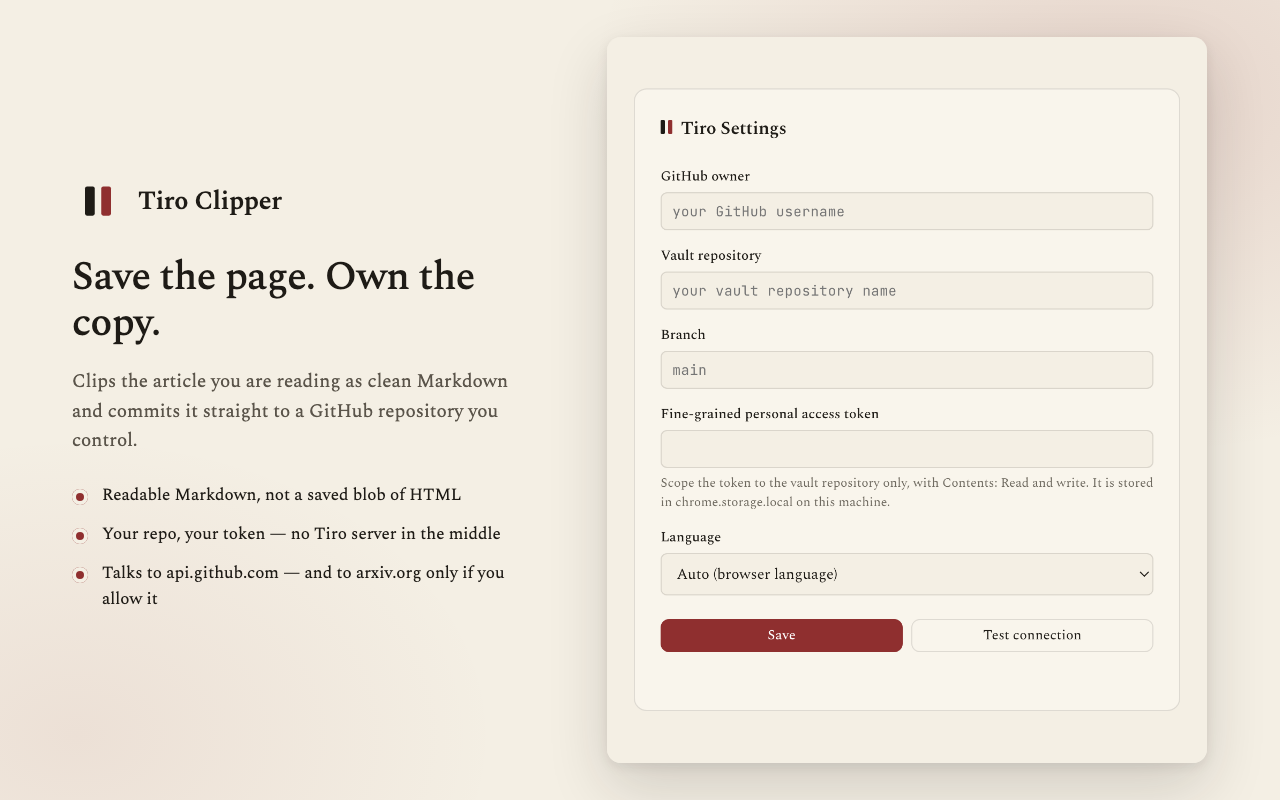
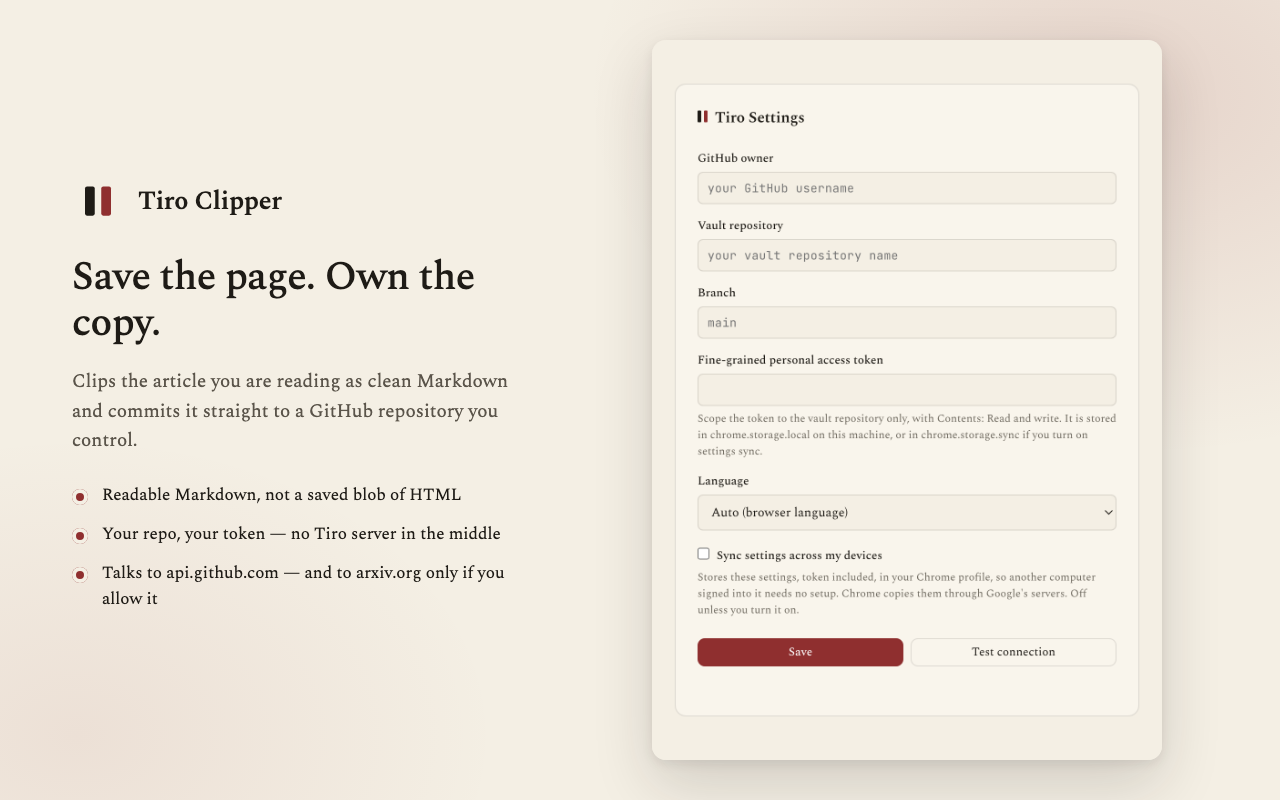
feat(extension): add the settings sync toggle to the options page
The flip that makes opt-in sync reachable: a tickbox below the language
select, its own hint saying plainly that the token goes into the Chrome
profile and travels through Google's servers, and strings for both locales.

Switching sync on can adopt settings the synced area already holds, language
included, so the handler repaints the form and re-applies the UI copy rather
than leaving stale values on screen — without that, joining an existing sync
would show the old settings while using the new ones.

Two failures with opposite right answers, so the handler is a try/catch pair
rather than .then(ok, err): that form does not catch a throw from its own
success arm, which turned a failed repaint into an unhandled rejection with
the status line still reading "Saved." — found by driving the real handlers
against a stubbed chrome.storage in the browser, and re-checked after. A failed
write reverts the tickbox, because it would otherwise claim something untrue
about where the token is; a failed repaint leaves it alone, because the switch
did take effect, and reverting would be the lie.

The onChanged listener is registered inside init(), after the ?preview early
return — at module scope it would throw in the dev-fixtures build, which has no
chrome to add a listener to. It reports rather than repaints: comparing storage
against the form means a save of our own can never notify itself, and a user
mid-edit does not lose typed input to another device's write.
[…]

diff --git a/apps/extension/src/options/options.ts b/apps/extension/src/options/options.ts
@@ -14,8 +14,10 @@ import {
 import {
   loadConfig,
   loadLanguage,
+  loadSyncEnabled,
   saveConfig,
   saveLanguage,
+  setSyncEnabled,
 } from "../storage.ts";
 
 const input = {
@@ -32,8 +34,11 @@ const label = {
   token: document.getElementById("label-token") as HTMLSpanElement,
   tokenHint: document.getElementById("token-hint") as HTMLParagraphElement,
   language: document.getElementById("label-language") as HTMLSpanElement,
+  sync: document.getElementById("label-sync") as HTMLSpanElement,
+  syncHint: document.getElementById("sync-hint") as HTMLParagraphElement,
 };
 const languageSelect = document.getElementById("language") as HTMLSelectElement;
+const syncCheckbox = document.getElementById("sync") as HTMLInputElement;
 const saveButton = document.getElementById("save") as HTMLButtonElement;
 const testButton = document.getElementById("test") as HTMLButtonElement;
 const result = document.getElementById("result") as HTMLParagraphElement;
@@ -51,9 +56,9 @@ function currentConfig() {
   };
 }
 
-function show(message: string, ok: boolean): void {
+function show(message: string, tone: "ok" | "error" | "warn"): void {
   result.textContent = message;
-  result.className = ok ? "ok" : "error";
+  result.className = tone;
 }
 
 function applyText(locale: Locale): void {
@@ -68,6 +73,8 @@ function applyText(locale: Locale): void {
   label.token.textContent = m.labelToken;
   label.tokenHint.textContent = m.tokenHint;
   label.language.textContent = m.labelLanguage;
+  label.sync.textContent = m.labelSync;
+  label.syncHint.textContent = m.syncHint;
   const option: Record<LanguageSetting, string> = {
     auto: m.langAuto,
     en: m.langEn,
@@ -94,6 +101,39 @@ function describeConnection(r: ConnectionTestResult): string {
   }
 }
 
+/** Paints the stored settings into the form. Used on load and after the sync
+ * toggle, which can change what "stored" means: switching sync on adopts
+ * whatever the synced area already holds, so the form has to be repainted or
+ * it would keep showing values that are no longer the ones in use. */
+async function fillForm(): Promise<void> {
+  const config = await loadConfig();
+  input.owner.value = config.owner;
+  input.repo.value = config.repo;
+  input.branch.value = config.branch;
+  input.token.value = config.token;
+  savedLanguage = await loadLanguage();
+  languageSelect.value = savedLanguage;
+}
+
+/** Says so when the settings in storage no longer match the ones on screen.
+ *
+ * Compares against the form rather than tracking whether this page caused the
+ * write: after a save of our own the two already agree, so a self-inflicted
+ * notice is impossible without any bookkeeping. Deliberately does not repaint
+ * — the user may be mid-edit, and losing typed input to another device's write
+ * would be worse than showing a stale field. */
+async function announceRemoteChange(): Promise<void> {
+  const [config, language] = await Promise.all([loadConfig(), loadLanguage()]);
+  const onScreen = currentConfig();
+  const differs =
+    onScreen.owner !== config.owner ||
+    onScreen.repo !== config.repo ||
+    onScreen.branch !== config.branch ||
+    onScreen.token !== config.token ||
+    language !== savedLanguage;
+  if (differs) show(m.syncedElsewhere, "warn");
+}
+
 async function init(): Promise<void> {
   if (__DEV_FIXTURES__) {
     // A development build served outside the extension has no chrome.storage
@@ -112,18 +152,14 @@ async function init(): Promise<void> {
   const controls = [
     ...Object.values(input),
     languageSelect,
+    syncCheckbox,
     saveButton,
     testButton,
   ];
   for (const control of controls) control.disabled = true;
   try {
-    const config = await loadConfig();
-    input.owner.value = config.owner;
-    input.repo.value = config.repo;
-    input.branch.value = config.branch;
-    input.token.value = config.token;
-    savedLanguage = await loadLanguage();
-    languageSelect.value = savedLanguage;
+    syncCheckbox.checked = await loadSyncEnabled();
+    await fillForm();
     const locale = await getLocale();
     m = messages(locale);
     applyText(locale);
@@ -132,11 +168,48 @@ async function init(): Promise<void> {
     // overwrite a good stored config — so the form stays inert, but says
     // why instead of sitting there dead. (m may still be the English
     // default here; the locale read failed along with everything else.)
-    show(m.couldNotLoad(String(error)), false);
+    show(m.couldNotLoad(String(error)), "error");
     return;
   }
   for (const control of controls) control.disabled = false;
+  // Registered here rather than at module scope: the ?preview path above
+  // returns before this, and that build has no chrome to add a listener to.
+  chrome.storage.onChanged.addListener((_changes, areaName) => {
+    if (areaName === "sync") void announceRemoteChange();
+  });
 }
+
+syncCheckbox.addEventListener("change", () => {
+  const enabled = syncCheckbox.checked;
+  // Two failures with opposite right answers, so not `.then(ok, err)` — that
+  // form does not catch a throw from its own success arm, which left a failed
+  // repaint as an unhandled rejection with the status line still showing the
+  // previous message.
+  void (async () => {
+    try {
+      await setSyncEnabled(enabled);
+    } catch (error) {
+      // The write did not stick, so the tickbox is claiming something untrue
+      // about where the token is: put it back.
+      syncCheckbox.checked = !enabled;
+      show(m.couldNotSave(String(error)), "error");
+      return;
+    }
+    try {
+      // Switching on can adopt settings already in sync, language included,
+      // so the form and the UI copy both have to follow.
+      await fillForm();
+      const locale = await getLocale();
+      m = messages(locale);
+      applyText(locale);
+      show(enabled ? m.syncOn : m.syncOff, "ok");
+    } catch (error) {
+      // The switch did take effect and only the repaint failed. Reverting the
+      // tickbox would be the lie here, so leave it and say what happened.
+      show(m.couldNotLoad(String(error)), "error");
+    }
+  })();
+});
 
 languageSelect.addEventListener("change", () => {
   const setting = languageSelect.value as LanguageSetting;
@@ -154,14 +227,14 @@ languageSelect.addEventListener("change", () => {
       // A selector showing a choice that did not stick would be a lie: put
       // the stored value back and say what happened.
       languageSelect.value = savedLanguage;
-      show(m.couldNotSave(String(error)), false);
+      show(m.couldNotSave(String(error)), "error");
     });
 });
 
 saveButton.addEventListener("click", () => {
   void saveConfig(currentConfig()).then(
-    () => show(m.saved, true),
-    (error: unknown) => show(m.couldNotSave(String(error)), false),
+    () => show(m.saved, "ok"),
+    (error: unknown) => show(m.couldNotSave(String(error)), "error"),
   );
 });
 
@@ -173,11 +246,13 @@ testButton.addEventListener("click", () => {
     config.token === "" ? m.fieldToken : null,
   ].filter((f) => f !== null);
   if (missing.length > 0) {
-    show(m.fillFields(missing), false);
+    show(m.fillFields(missing), "error");
     return;
   }
-  show(m.testing, true);
-  void testConnection(config).then((r) => show(describeConnection(r), r.ok));
+  show(m.testing, "ok");
+  void testConnection(config).then((r) =>
+    show(describeConnection(r), r.ok ? "ok" : "error"),
+  );
 });
 
 void init();

diff --git a/apps/extension/src/i18n.ts b/apps/extension/src/i18n.ts
@@ -96,6 +96,13 @@ const en = {
   tokenHint:
     "Scope the token to the vault repository only, with Contents: Read and write. It is stored in chrome.storage.local on this machine, or in chrome.storage.sync if you turn on settings sync.",
   labelLanguage: "Language",
+  labelSync: "Sync settings across my devices",
+  syncHint:
+    "Stores these settings, token included, in your Chrome profile, so another computer signed into it needs no setup. Chrome copies them through Google's servers. Off unless you turn it on.",
+  syncOn: "Settings sync is on.",
+  syncOff: "Settings sync is off — these settings stay on this computer.",
+  syncedElsewhere:
+    "These settings changed on another device. Reopen this page to load them.",
   langAuto: "Auto (browser language)",
   langEn: "English",
   langZh: "中文",
@@ -189,6 +196,12 @@ const zh: Messages = {
   tokenHint:
     "令牌只需授权该仓库，权限为 Contents: Read and write。令牌保存在本机的 chrome.storage.local 中；若开启设置同步，则改为保存在 chrome.storage.sync 中。",
   labelLanguage: "语言",
+  labelSync: "在我的设备间同步设置",
+  syncHint:
+    "把这些设置（含令牌）保存到你的 Chrome 账户中，登录同一账户的另一台电脑便无需再次配置。同步由 Chrome 经 Google 的服务器完成。默认关闭，只有你亲自开启才会生效。",
+  syncOn: "设置同步已开启。",
+  syncOff: "设置同步已关闭——这些设置只保存在本机。",
+  syncedElsewhere: "这些设置已在其他设备上更改。重新打开本页即可载入。",
   langAuto: "自动（跟随浏览器）",
   langEn: "English",
   langZh: "中文",

diff --git a/apps/extension/store/screenshot-1-settings.html b/apps/extension/store/screenshot-1-settings.html
@@ -25,7 +25,12 @@
   li:before{content:"";position:absolute;left:0;top:7px;width:16px;height:16px;border-radius:50%;
             background:#8f2f2f;box-shadow:inset 0 0 0 4px #f4efe4}
   .shot{flex:1;display:flex;justify-content:center}
-  .shot img{width:600px;border-radius:14px;
+  /* Height is the binding dimension now that the options card has grown a
+     sync row: at a flat width:600px the shot renders 849px tall inside an
+     800px frame and overflow:hidden crops it, top and bottom, silently.
+     Constrain both and let whichever runs out first win, so the next change
+     to the page's height scales the shot instead of trimming it. */
+  .shot img{max-width:600px;max-height:720px;width:auto;height:auto;border-radius:14px;
             box-shadow:0 24px 60px rgba(30,27,22,.16),0 4px 12px rgba(30,27,22,.08)}
 </style>
 <div class="copy">

diff --git a/apps/extension/src/options/options.html b/apps/extension/src/options/options.html
@@ -49,6 +49,15 @@
           <option value="zh">中文</option>
         </select>
       </label>
+      <label class="check">
+        <input id="sync" type="checkbox" />
+        <span id="label-sync">Sync settings across my devices</span>
+      </label>
+      <p id="sync-hint" class="note hint">
+        Stores these settings, token included, in your Chrome profile, so
+        another computer signed into it needs no setup. Chrome copies them
+        through Google's servers. Off unless you turn it on.
+      </p>
       <div class="actions row">
         <button id="save" type="button" class="btn btn-primary">Save</button>
         <button id="test" type="button" class="btn btn-secondary">

diff --git a/apps/extension/src/options/options.css b/apps/extension/src/options/options.css
@@ -31,6 +31,25 @@ body {
 .row {
   margin-top: 22px;
 }
+.check {
+  display: flex;
+  align-items: flex-start;
+  gap: 8px;
+  margin-top: 18px;
+}
+/* The shared input rule sizes text fields — full width, padding, a border.
+ * A checkbox wants none of that, and outranks it on class specificity. */
+.check input {
+  width: auto;
+  flex: none;
+  margin: 1px 0 0;
+  padding: 0;
+  accent-color: var(--accent);
+}
+.check span {
+  font-size: 13px;
+  font-weight: 500;
+}
 #result {
   margin: 12px 0 0;
   min-height: 18px;
@@ -42,4 +61,7 @@ body {
 }
 #result.error {
   color: var(--accent);
+}
+#result.warn {
+  color: var(--warn);
 }

diff --git a/apps/extension/store/README.md b/apps/extension/store/README.md
@@ -59,7 +59,7 @@ trap 'pkill -f "http.server 4322"' EXIT
 until curl -sf -o /dev/null http://127.0.0.1:4322/src/options/options.html; do sleep 0.2; done
 
 "$CHROME" --headless --disable-gpu --hide-scrollbars \
-  --force-device-scale-factor=2 --window-size=560,678 \
+  --force-device-scale-factor=2 --window-size=560,792 \
   --screenshot="apps/extension/store/options-ui.png" \
   "http://127.0.0.1:4322/src/options/options.html?preview"
 
@@ -82,7 +82,7 @@ Confirm the sizes afterwards — the store rejects anything off by a pixel:
 ```sh
 file apps/extension/store/*.png
 # expect 1280x800 (screenshot) and 440x280 (promo tile) — the store uploads.
-# options-ui.png is 1120x1356: the 2x intermediate capture the screenshot
+# options-ui.png is 1120x1584: the 2x intermediate capture the screenshot
 # composition embeds, never uploaded itself.
 ```
 
@@ -91,9 +91,16 @@ Notes that will save you a confused half hour:
 - `--window-size` is the crop, not a scale, and the right height is a
   measurement, not a constant. Too small silently shaves the card's bottom
   corner off rather than scaling the card down, so **round up**: the card is
-  581.4px tall, and 48 + 581.4 + 48 = 677.4 rounds to the **678** used above.
+  695.9px tall, and 48 + 695.9 + 48 = 791.9 rounds to the **792** used above.
   Card heights are fractional — do not round the parts before adding them, or
-  you get 677 and lose a pixel of the card.
+  you get 791 and lose a pixel of the card.
+
+  The composition constrains the shot on **both** axes
+  (`max-width:600px;max-height:720px`) rather than on width alone. A flat
+  width was what made this bite: when the options page grew a sync row, 600px
+  wide became 849px tall inside an 800px frame, and `overflow:hidden` cropped
+  it top and bottom without complaint. Constrained both ways, a taller page
+  scales the shot down instead of trimming it.
 
   **Re-measure whenever the options page changes height.** In the served dev
   build:
